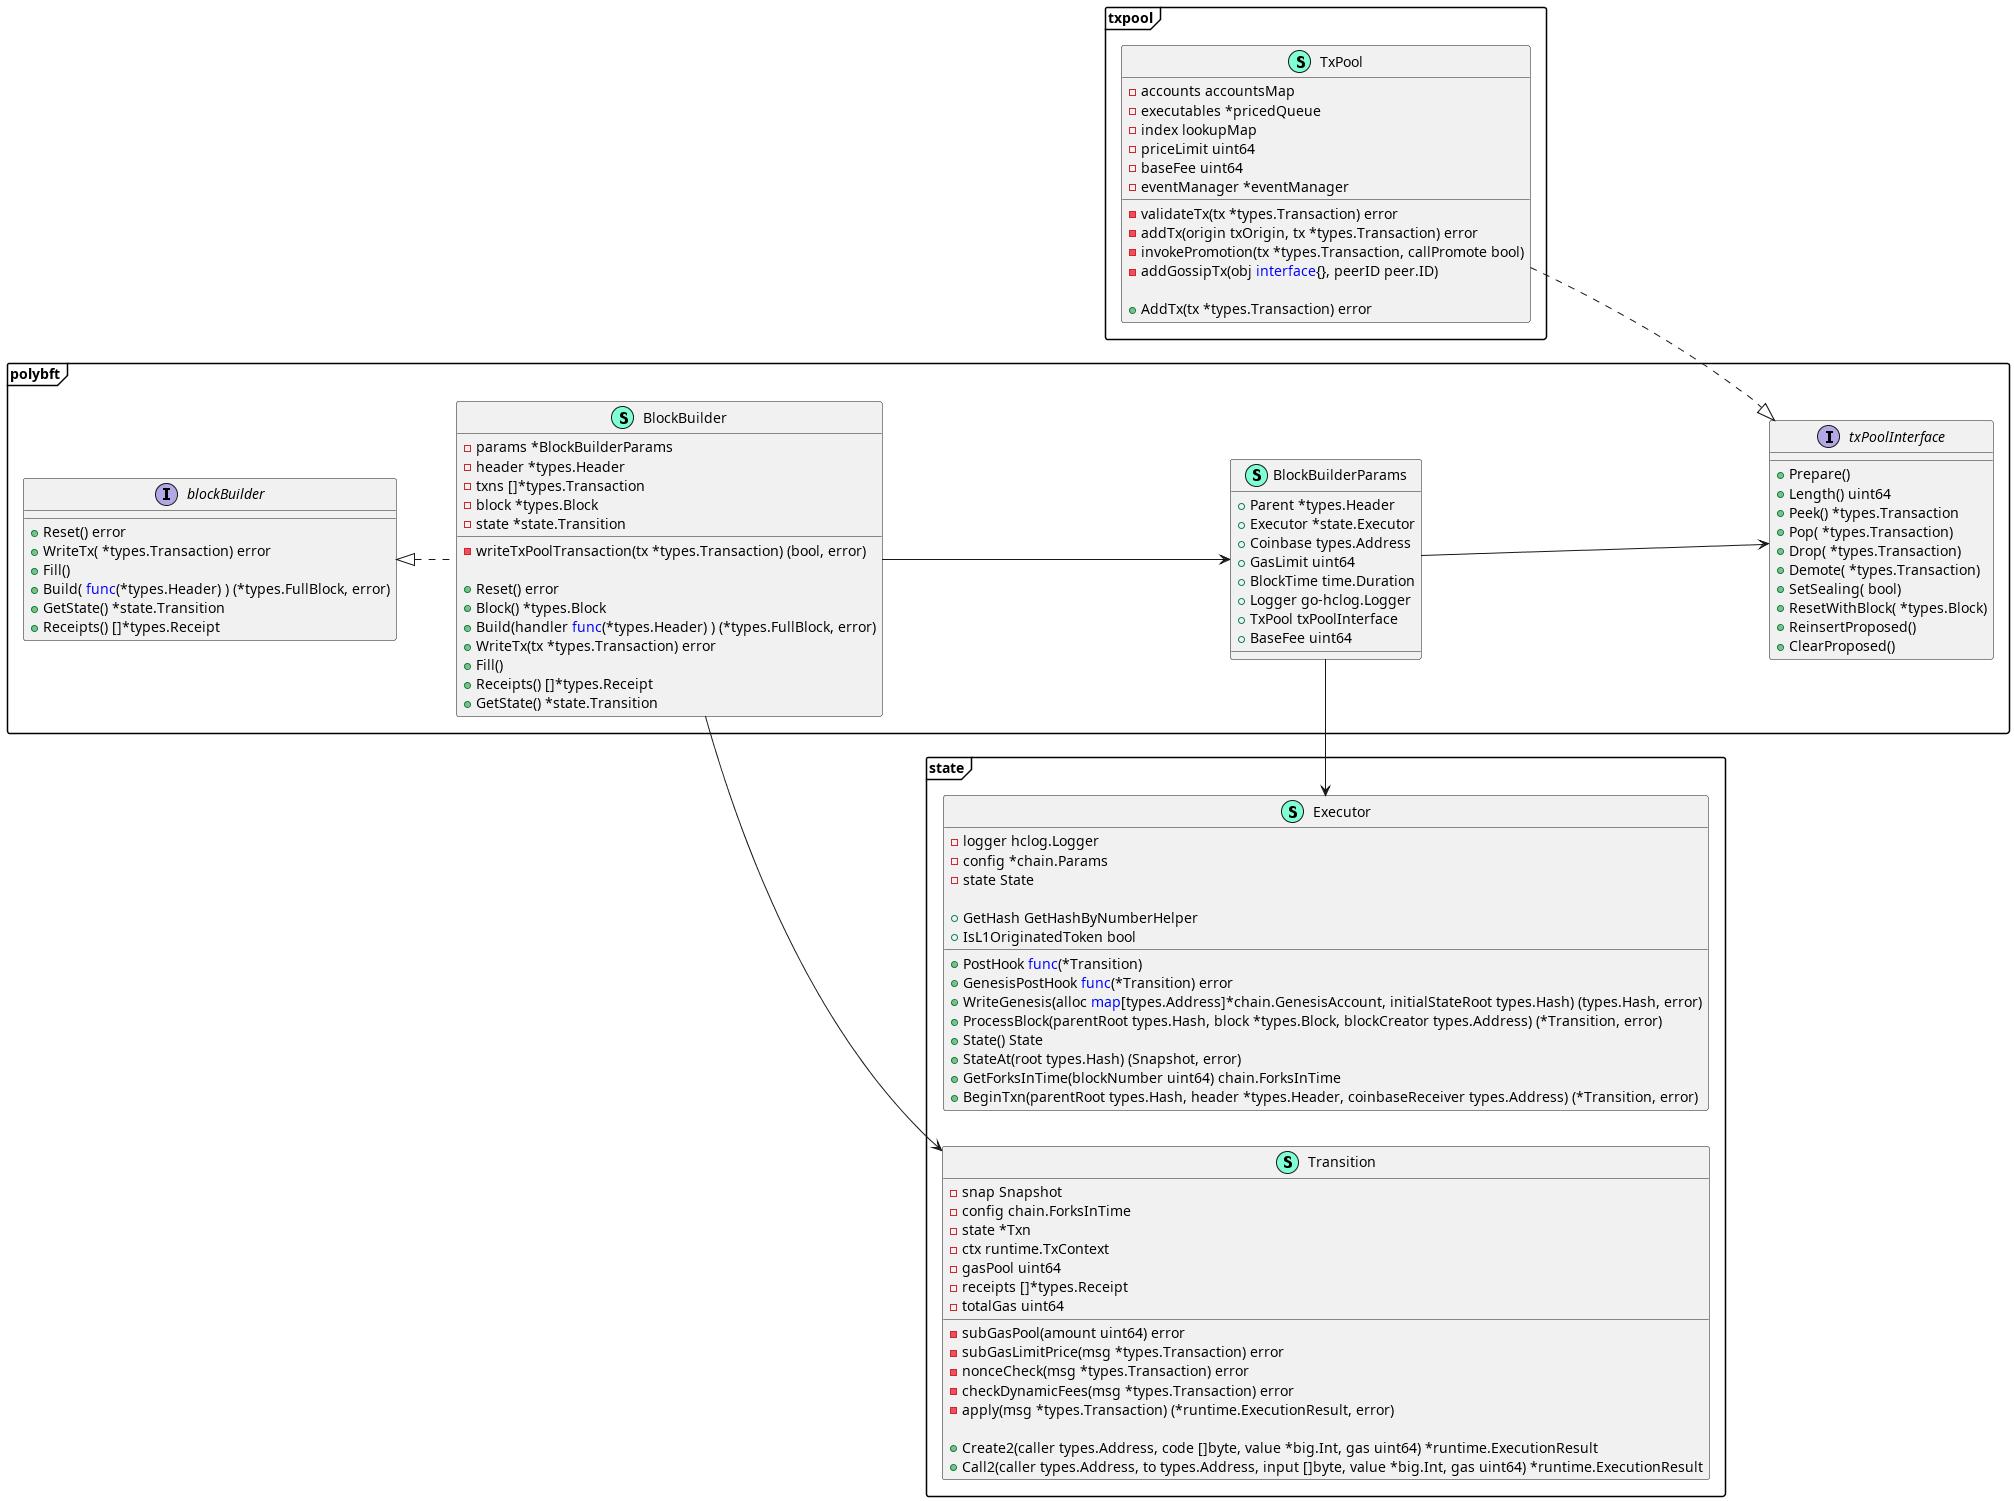
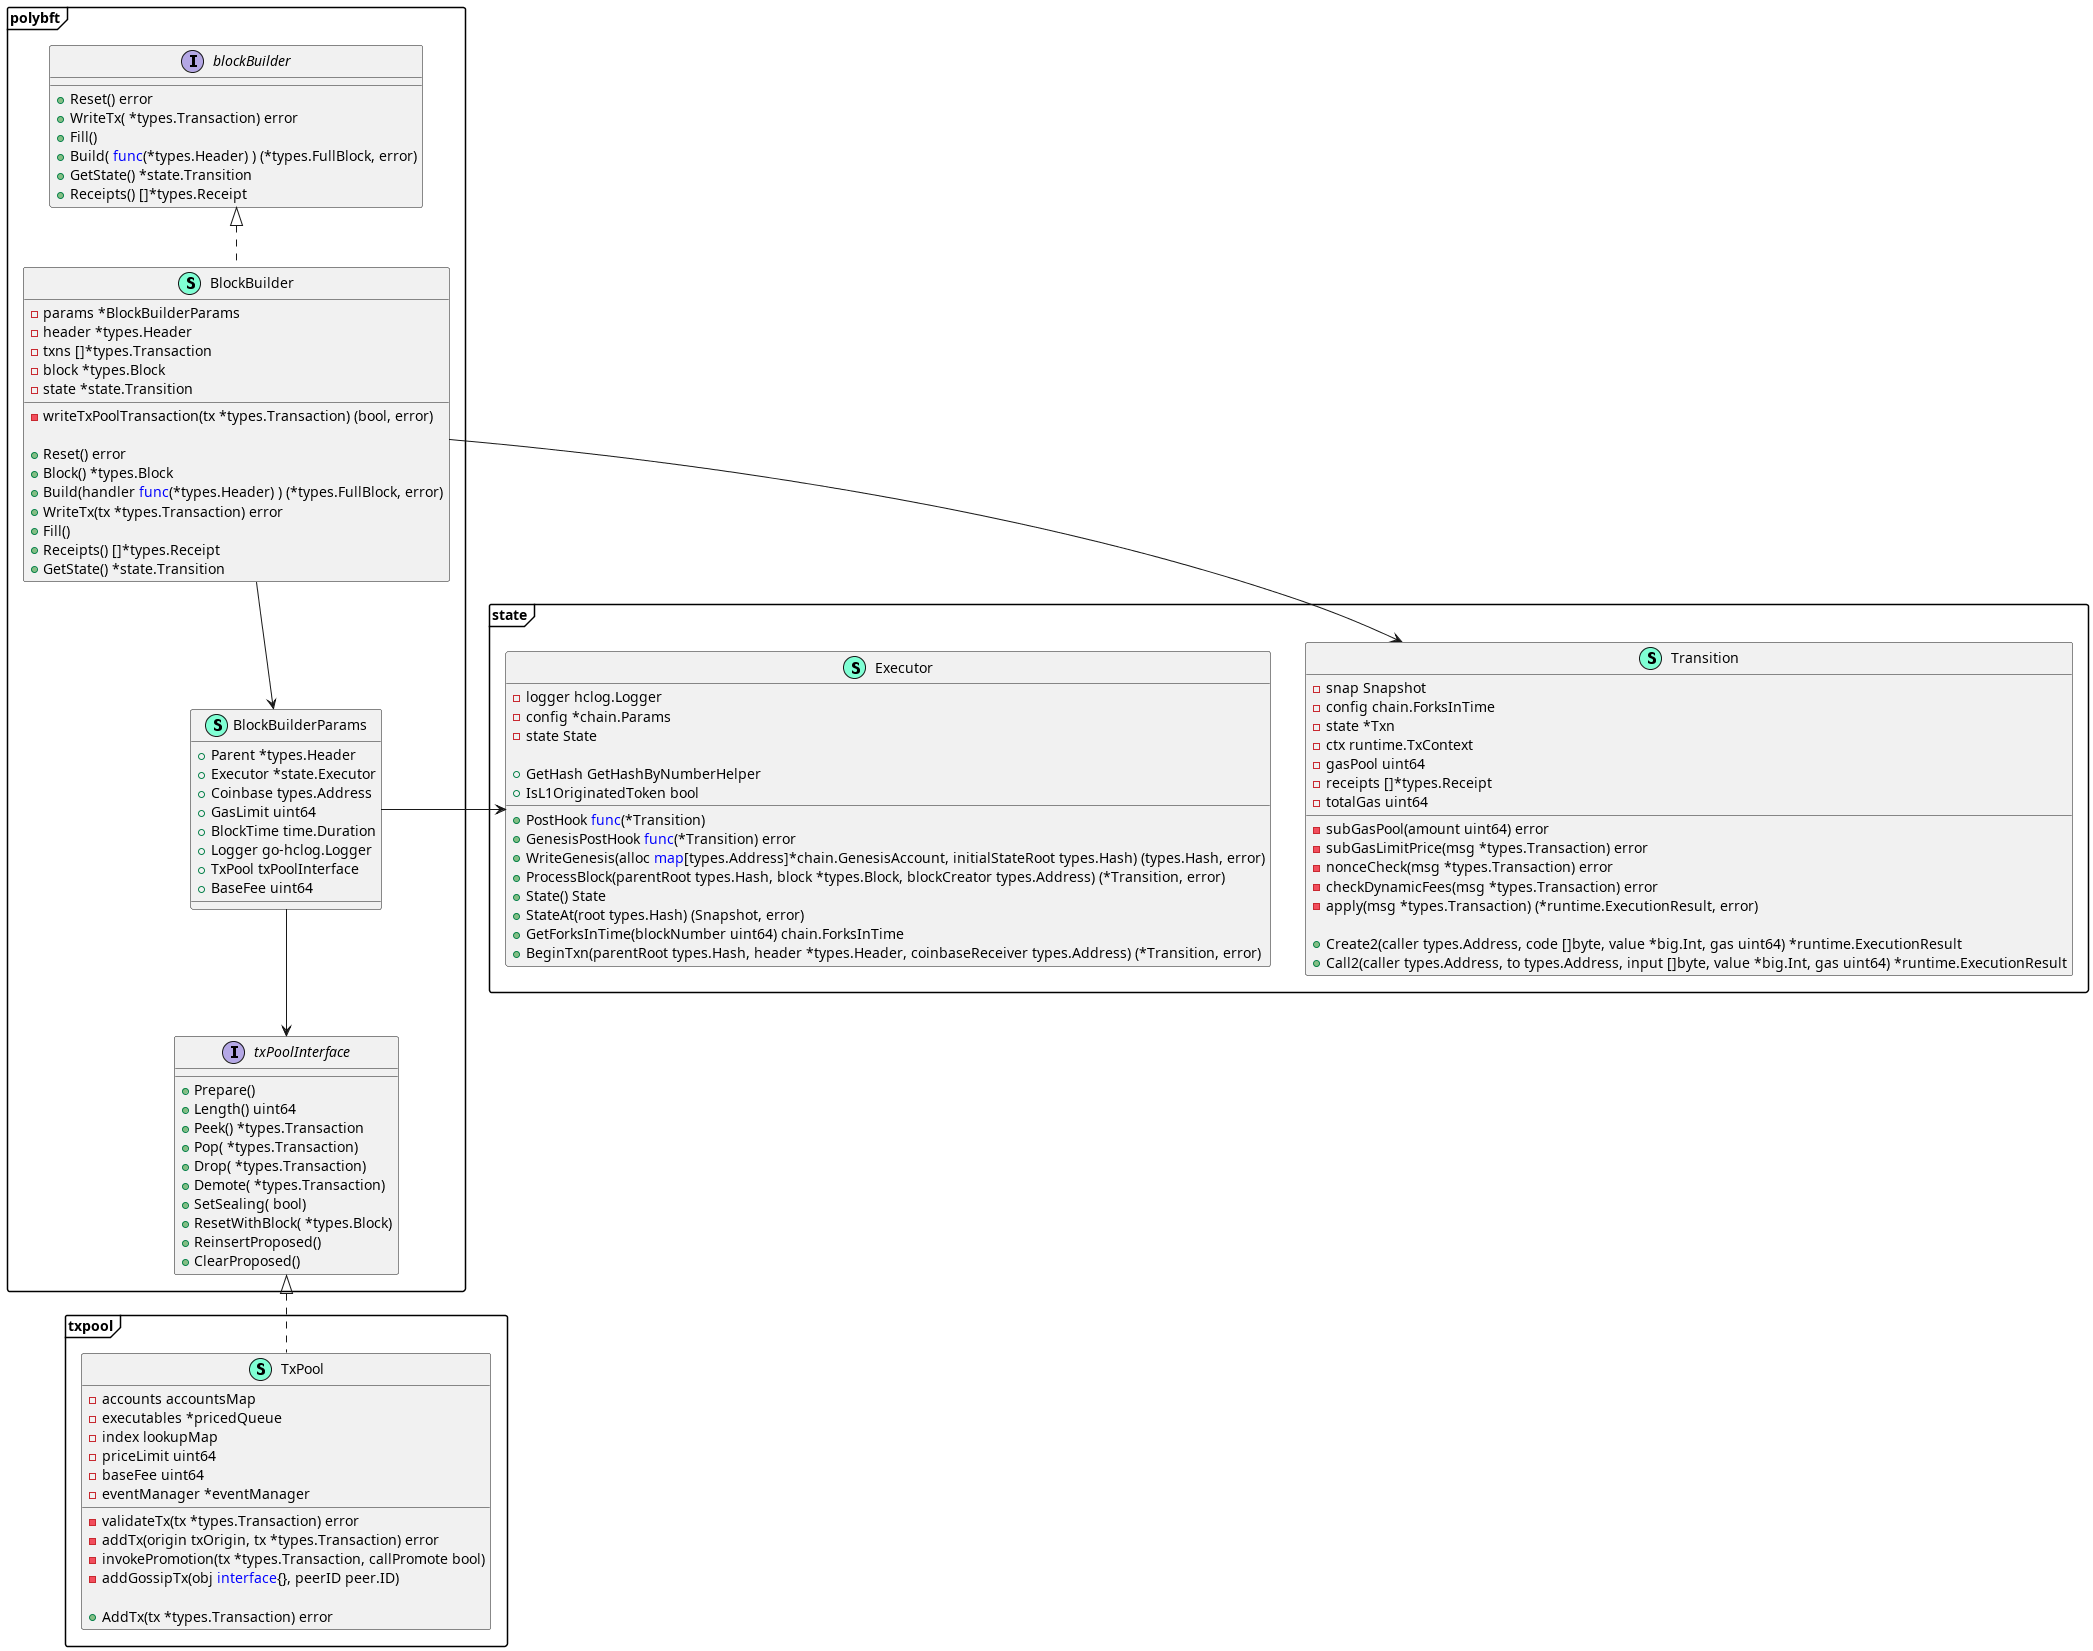
GITBOOK-40: Reapply

diff --git a/gitbook/detailed-design/components/block-creation-process.md b/gitbook/detailed-design/components/block-creation-process.md
@@ -8,7 +8,7 @@ description: >-
 
 Block creation is the essence of the blockchain system. The following figure shows all the components involved in the process (for clarity reasons, some fields and functions in structures are omitted):
 
-<figure><img src="../../.gitbook/assets/polybft_block_creation (1).png" alt=""><figcaption><p>Elements of the Block Creation Process</p></figcaption></figure>
+<figure><img src="../../.gitbook/assets/polybft_block_creation.png" alt=""><figcaption><p>Elements of the Block Creation Process</p></figcaption></figure>
 
 The `BlockBuilder` represents one of the most important components of the system, which, as the name suggests, enables the creation of a block. This component possesses specific configuration parameters (`BlockBuilderParams`), whose values are set during its instantiation by calling the `NewBlockBuilder` method. The key parameters and their meanings are outlined below:
 
